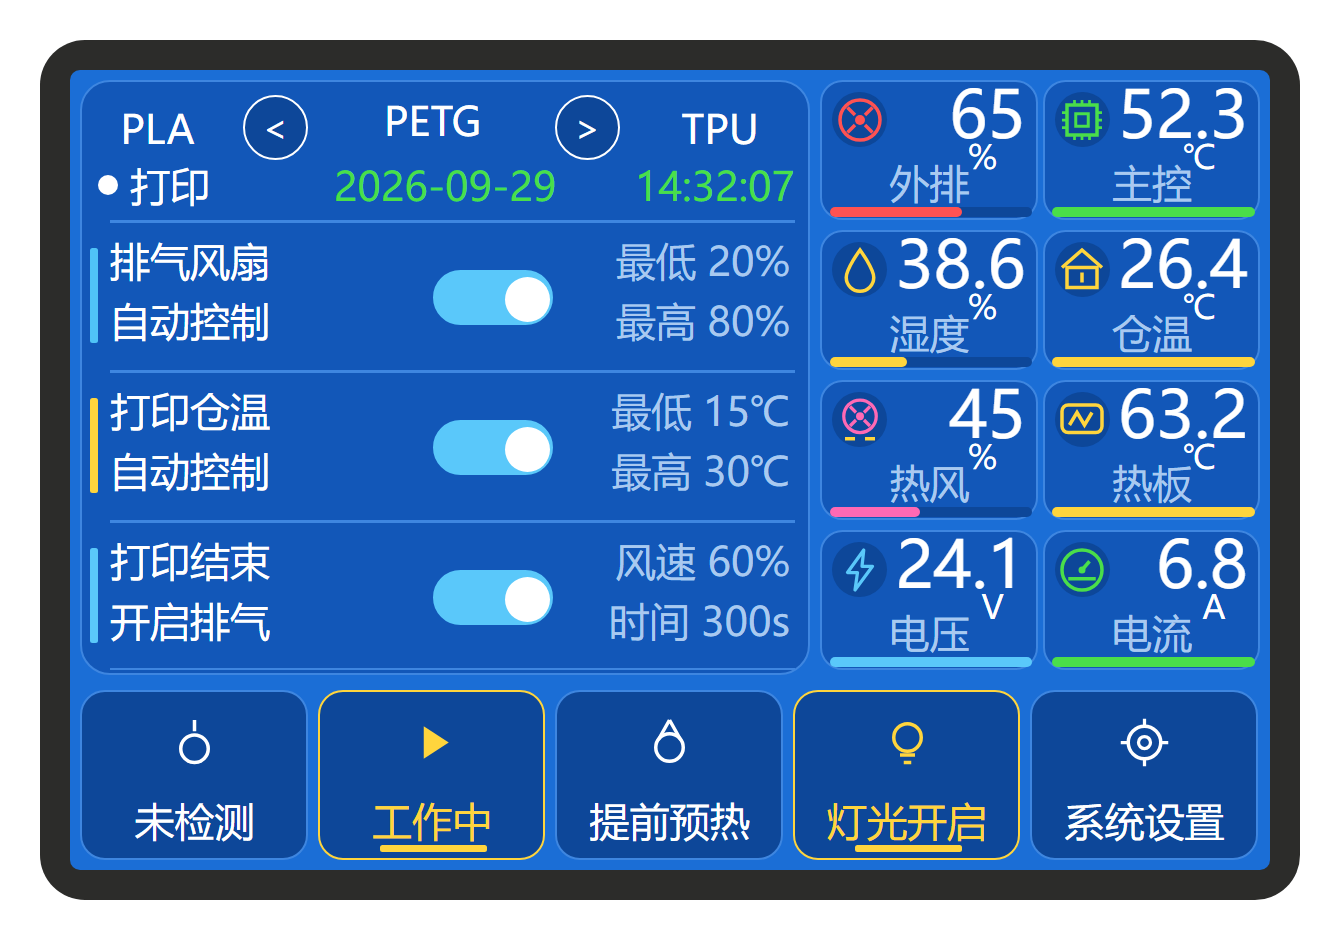
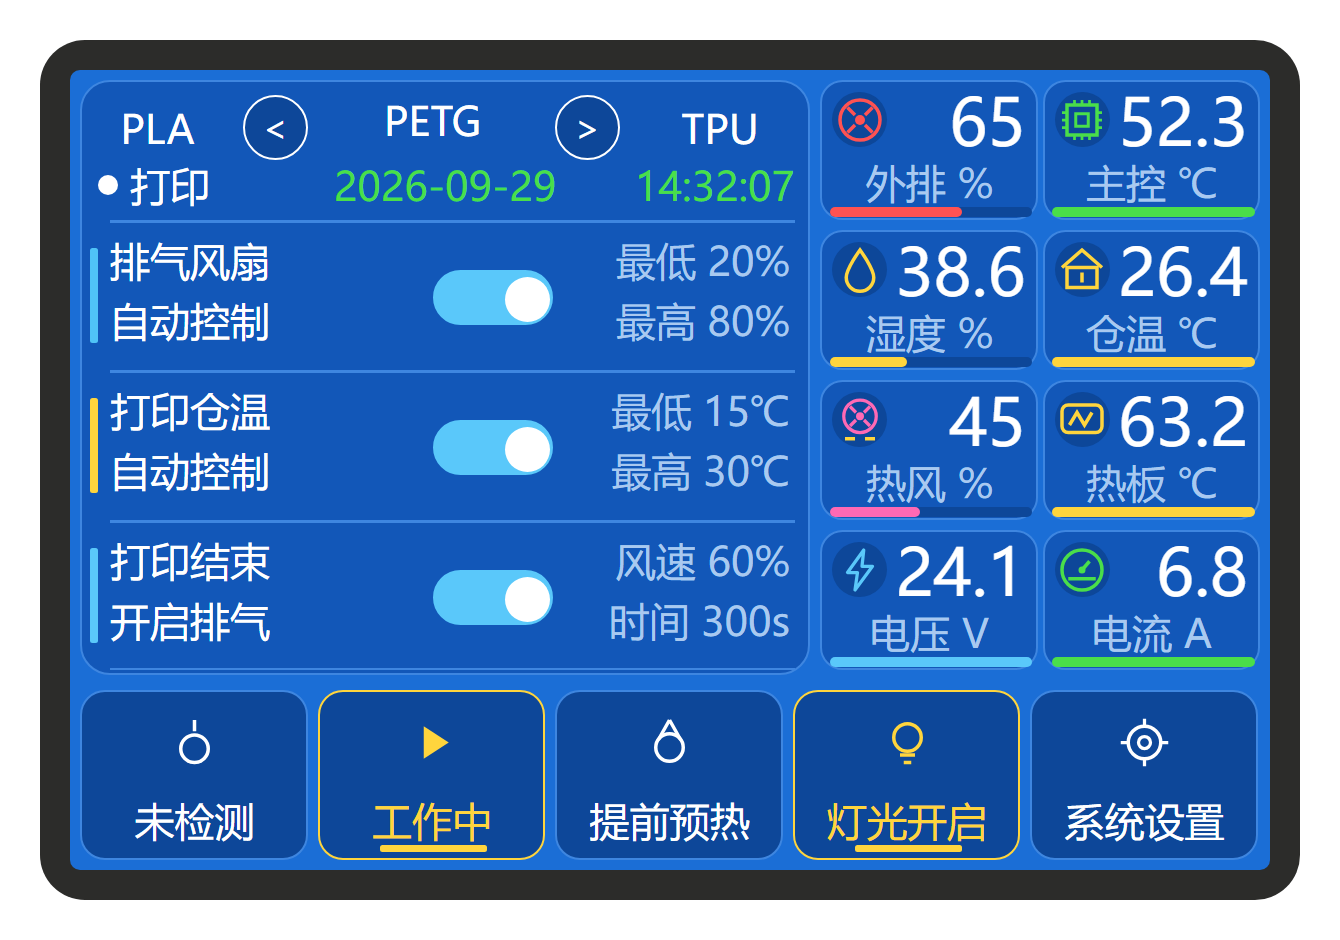
style(ui): 仪表单位并入底部名称行(电压 V/主控 ℃),数字回正居中

diff --git a/src/tft_ui.cpp b/src/tft_ui.cpp
@@ -872,12 +872,24 @@ void drawFrame(TFT_eSPI &g, const UiSnapshot &s) {
            s.postExhaustSeconds);
   g.drawString(line, 288, 220);
 
+  // 仪表名与单位合成一行底部说明(如 "电压 V"、"主控 ℃"),居中排布。
+  const float values[] = {static_cast<float>(s.exhaustPercent),
+                          s.mcuC,
+                          s.humidity,
+                          s.chamberC,
+                          static_cast<float>(s.heaterFanPercent),
+                          s.heaterBoardC,
+                          s.voltageV,
+                          s.currentA};
+  const char *units[] = {"%", "℃", "%", "℃", "%", "℃", "V", "A"};
   for (uint8_t i = 0; i < 8; ++i) {
     const int16_t x = 300 + (i & 1) * 89;
     const int16_t y = 4 + (i >> 1) * 60;
+    char cap[24];
+    snprintf(cap, sizeof(cap), "%s %s", tx.gauges[i], units[i]);
     g.setTextColor(MUTED, PANEL);
     g.setTextDatum(MC_DATUM);
-    g.drawString(tx.gauges[i], x + 43, y + 40);
+    g.drawString(cap, x + 43, y + 40);
   }
   for (uint8_t i = 0; i < 5; ++i) {
     const int16_t x = 4 + i * 95;
@@ -898,20 +910,9 @@ void drawFrame(TFT_eSPI &g, const UiSnapshot &s) {
   }
   g.unloadFont();
 
-  // Render the eight live values: 大数字(CN26)在上、小单位(CN16)贴右缘
-  // 挂在其下,温度用 ℃(字库含 U+2103)。数字统一白色,状态色交给图标与
-  // 微型进度条;仅热板超限时数字转红。数字超宽(≥100/负温)自动退为整数。
-  // 坐标按字形墨迹测算:CN26 数字基线 = 中心+10,墨迹约占中心±10;
-  // CN16 基线 = 中心+6,℃ 墨迹为中心±7。
-  const float values[] = {static_cast<float>(s.exhaustPercent),
-                          s.mcuC,
-                          s.humidity,
-                          s.chamberC,
-                          static_cast<float>(s.heaterFanPercent),
-                          s.heaterBoardC,
-                          s.voltageV,
-                          s.currentA};
-  const char *units[] = {"%", "℃", "%", "℃", "%", "℃", "V", "A"};
+  // Render the eight live values: 大数字(CN26)右对齐、垂直居中于格子
+  // 上半区,单位已并入底部仪表名行。数字统一白色,状态色交给图标与
+  // 微型进度条;仅热板超限时数字转红。超宽(≥100/负温)自动退为整数。
   g.loadFont(FontCN26);
   for (uint8_t i = 0; i < 8; ++i) {
     const int16_t x = 300 + (i & 1) * 89;
@@ -927,18 +928,7 @@ void drawFrame(TFT_eSPI &g, const UiSnapshot &s) {
                        s.heaterBoardC >= s.heaterBoardLimitC;
     g.setTextColor(fault ? G_RED : TEXT, PANEL);
     g.setTextDatum(MR_DATUM);
-    g.drawString(value, x + 83, y + 12);
-  }
-  g.unloadFont();
-  g.loadFont(FontCN16);
-  for (uint8_t i = 0; i < 8; ++i) {
-    if (!units[i][0] || isnan(values[i]))
-      continue;
-    const int16_t x = 300 + (i & 1) * 89;
-    const int16_t y = 4 + (i >> 1) * 60;
-    g.setTextColor(TEXT, PANEL);
-    g.setTextDatum(MR_DATUM);
-    g.drawString(units[i], x + 83, y + 30);
+    g.drawString(value, x + 83, y + 15);
   }
   g.unloadFont();
   g.setTextDatum(TL_DATUM);
